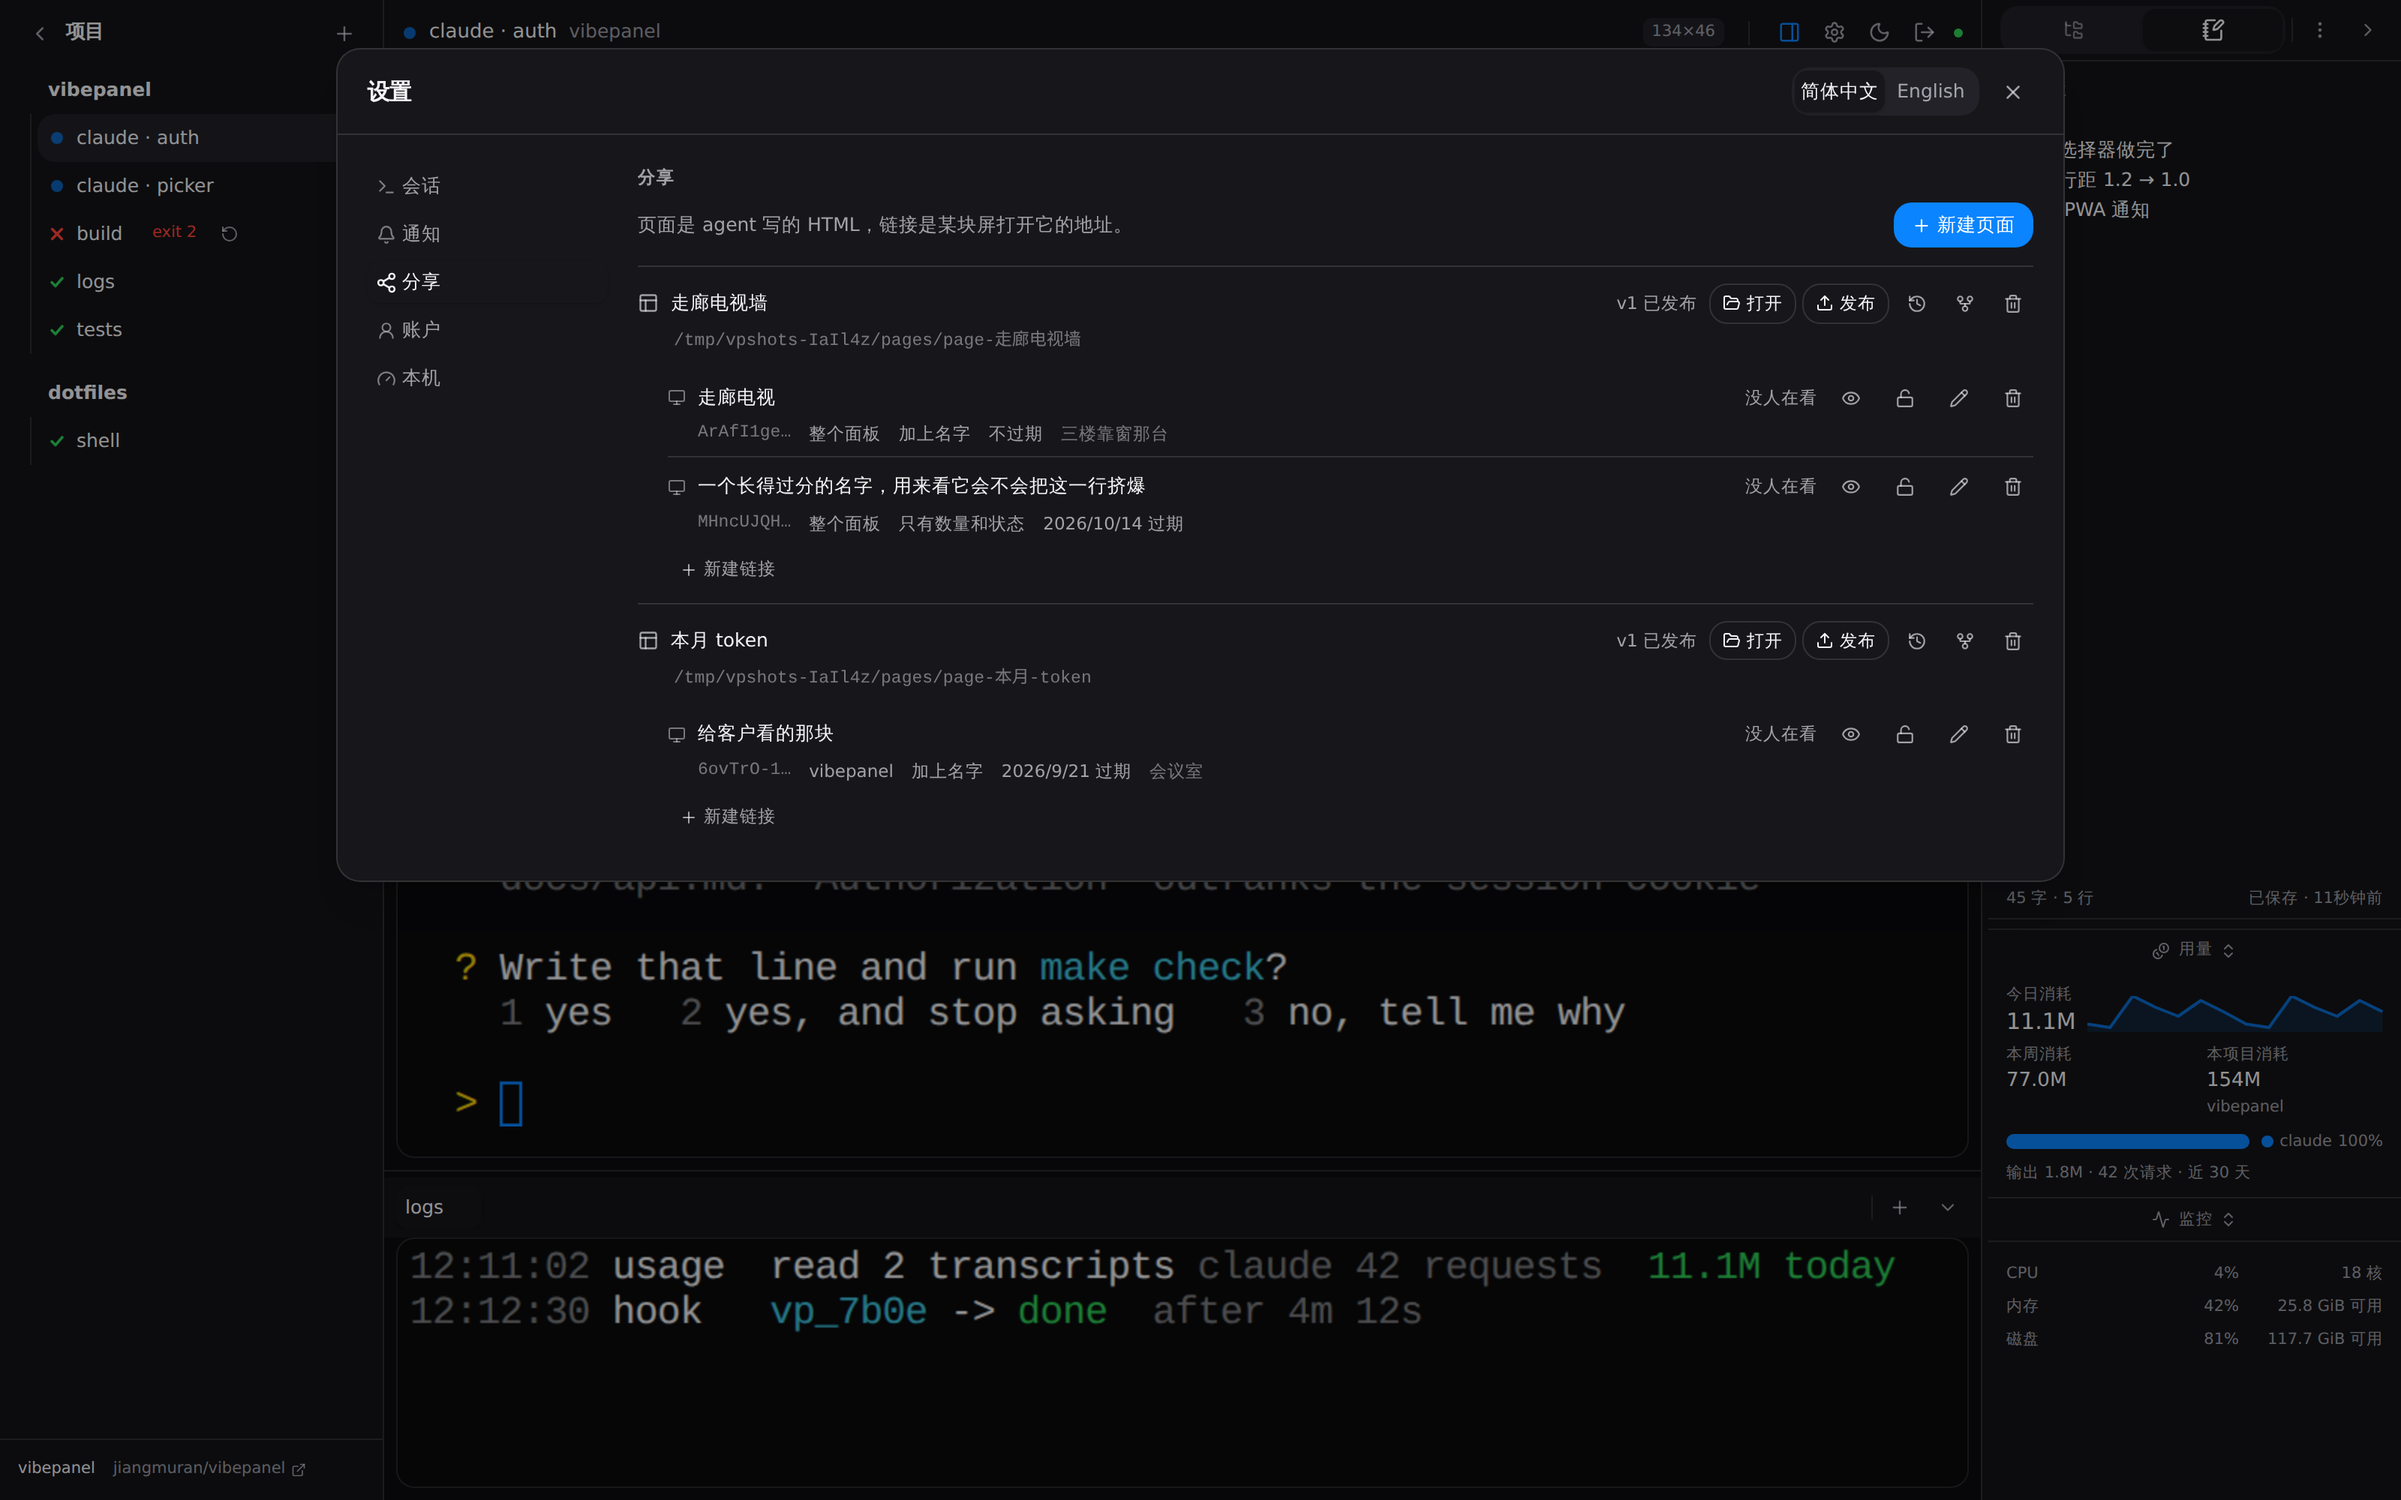
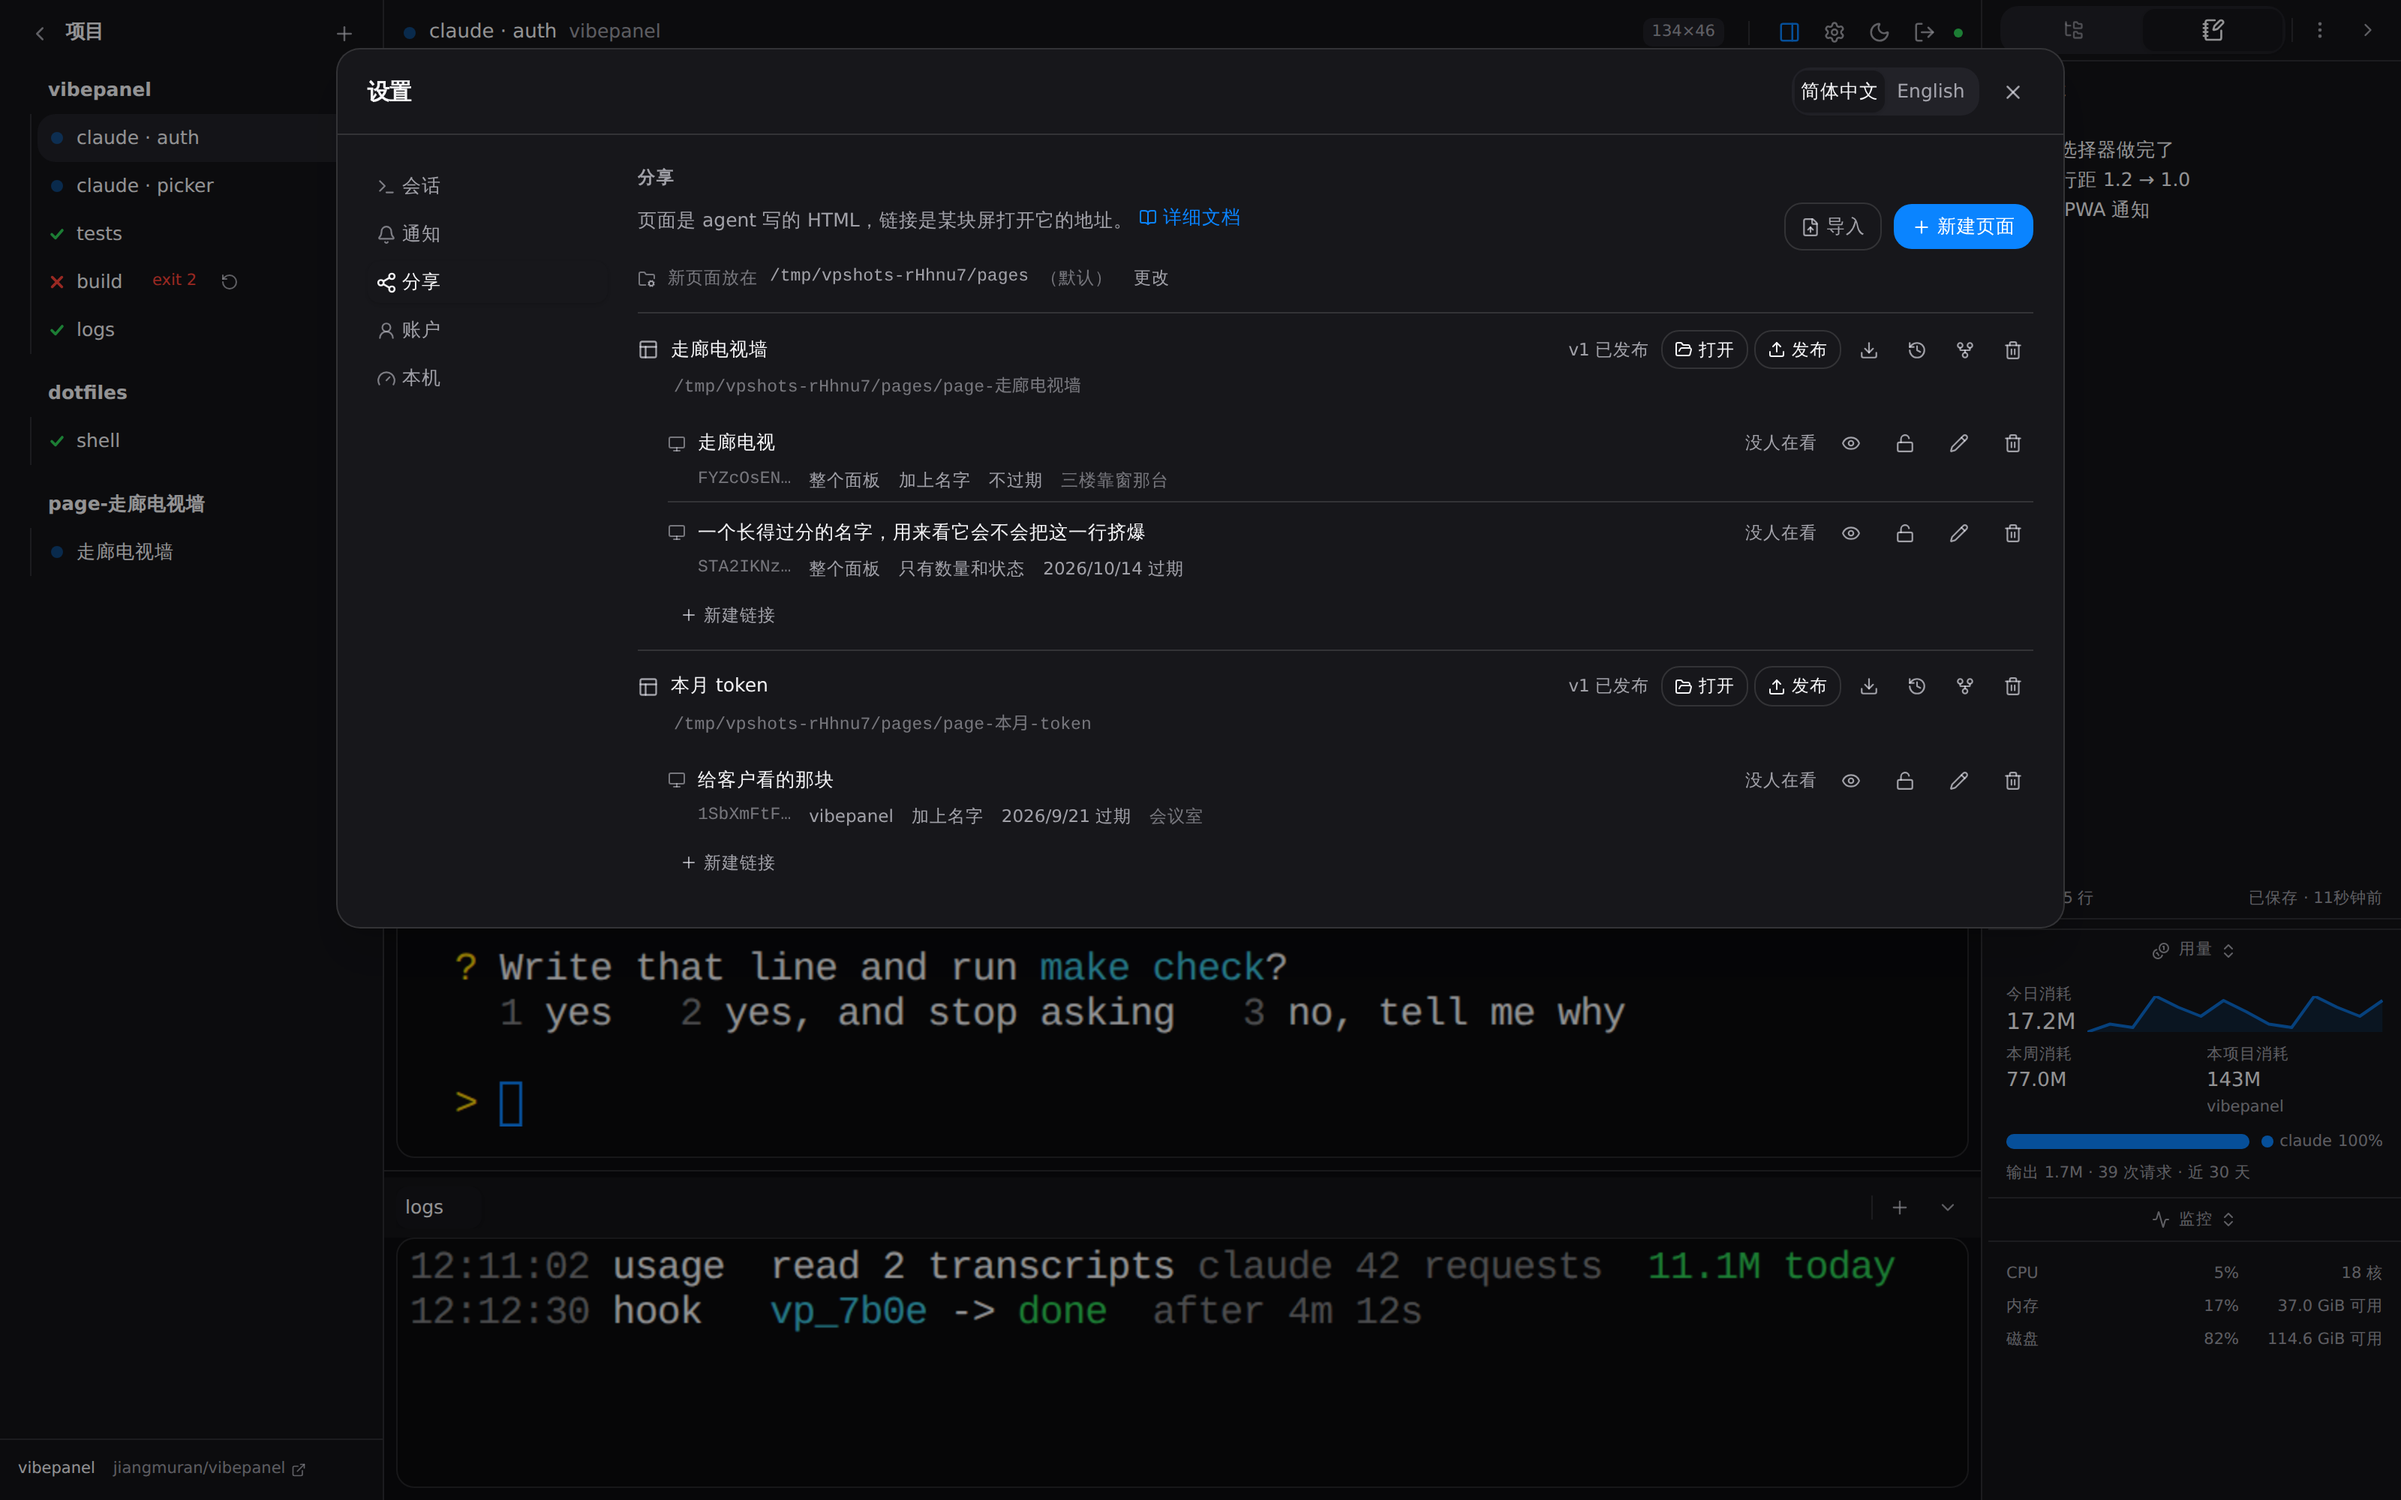
docs(readme): the Preview opens large, pages travel as a zip
README and README.zh-CN say what the share section can do now, lead with the
Preview opened large on a television, and use fresh screenshots of the sharing
settings and the wall. shots.mjs photographs the enlarged Preview from a page
project with a session in it.

diff --git a/README.md b/README.md
@@ -54,8 +54,11 @@ The other thing I am fond of is share links. Put the whole system's status on a
 monitor, or put tokens spent against code produced on a big screen so whoever
 needs convincing can see it. What the screen shows is a page you have an agent
 write, in its own project, with a live preview beside the terminal: start from a
-template, publish, make a link, open it on the screen. ~~Fine, I know this is a
-niche feature. I still think it matters.~~
+template, publish, make a link, open it on the screen. Click the preview and it
+opens large over the whole window, on a phone, a laptop or a television, so you
+see what the wall will see before you hang it. Pages live beside the panel's own
+data unless you say otherwise, and travel between panels as a zip. ~~Fine, I
+know this is a niche feature. I still think it matters.~~
 
 I will say this plainly: this is **not AI slop**. It is a terminal I use hard
 every day and it is genuinely nice to use. I hope it saves you some time and
@@ -63,13 +66,13 @@ that you enjoy it. It is early, so come and join in if you have ideas or
 complaints.
 
 <p align="center">
-  <img src="docs/images/share-preview.png" width="49%" alt="A share page's live Preview beside the agent writing it">
-  <img src="docs/images/share-settings.png" width="49%" alt="Settings, Sharing: each page with its version, and the links that show it underneath">
+  <img src="docs/images/share-zoom.png" width="98%" alt="A share page's Preview opened large over the window, on a 1920x1080 television">
 </p>
 <p align="center">
-  <img src="docs/images/share-wall.png" width="98%" alt="The session wall template on a 1920x1080 screen">
+  <img src="docs/images/share-settings.png" width="49%" alt="Settings, Sharing: each page with its version, and the links that show it underneath">
+  <img src="docs/images/share-wall.png" width="49%" alt="The session wall template on a 1920x1080 screen">
 </p>
-<p align="center"><sub>Share pages: an agent writes it beside a live preview, you publish it, and a link puts it on a screen. <a href="docs/features.md#screens-for-other-people">How</a>.</sub></p>
+<p align="center"><sub>Share pages: an agent writes it beside a live preview you can open large, you publish it, and a link puts it on a screen. <a href="docs/features.md#screens-for-other-people">How</a>.</sub></p>
 
 <p align="center">
   <img src="docs/images/mobile-session.png" width="36%" alt="A session on a phone, with the compose box and the key bar">
